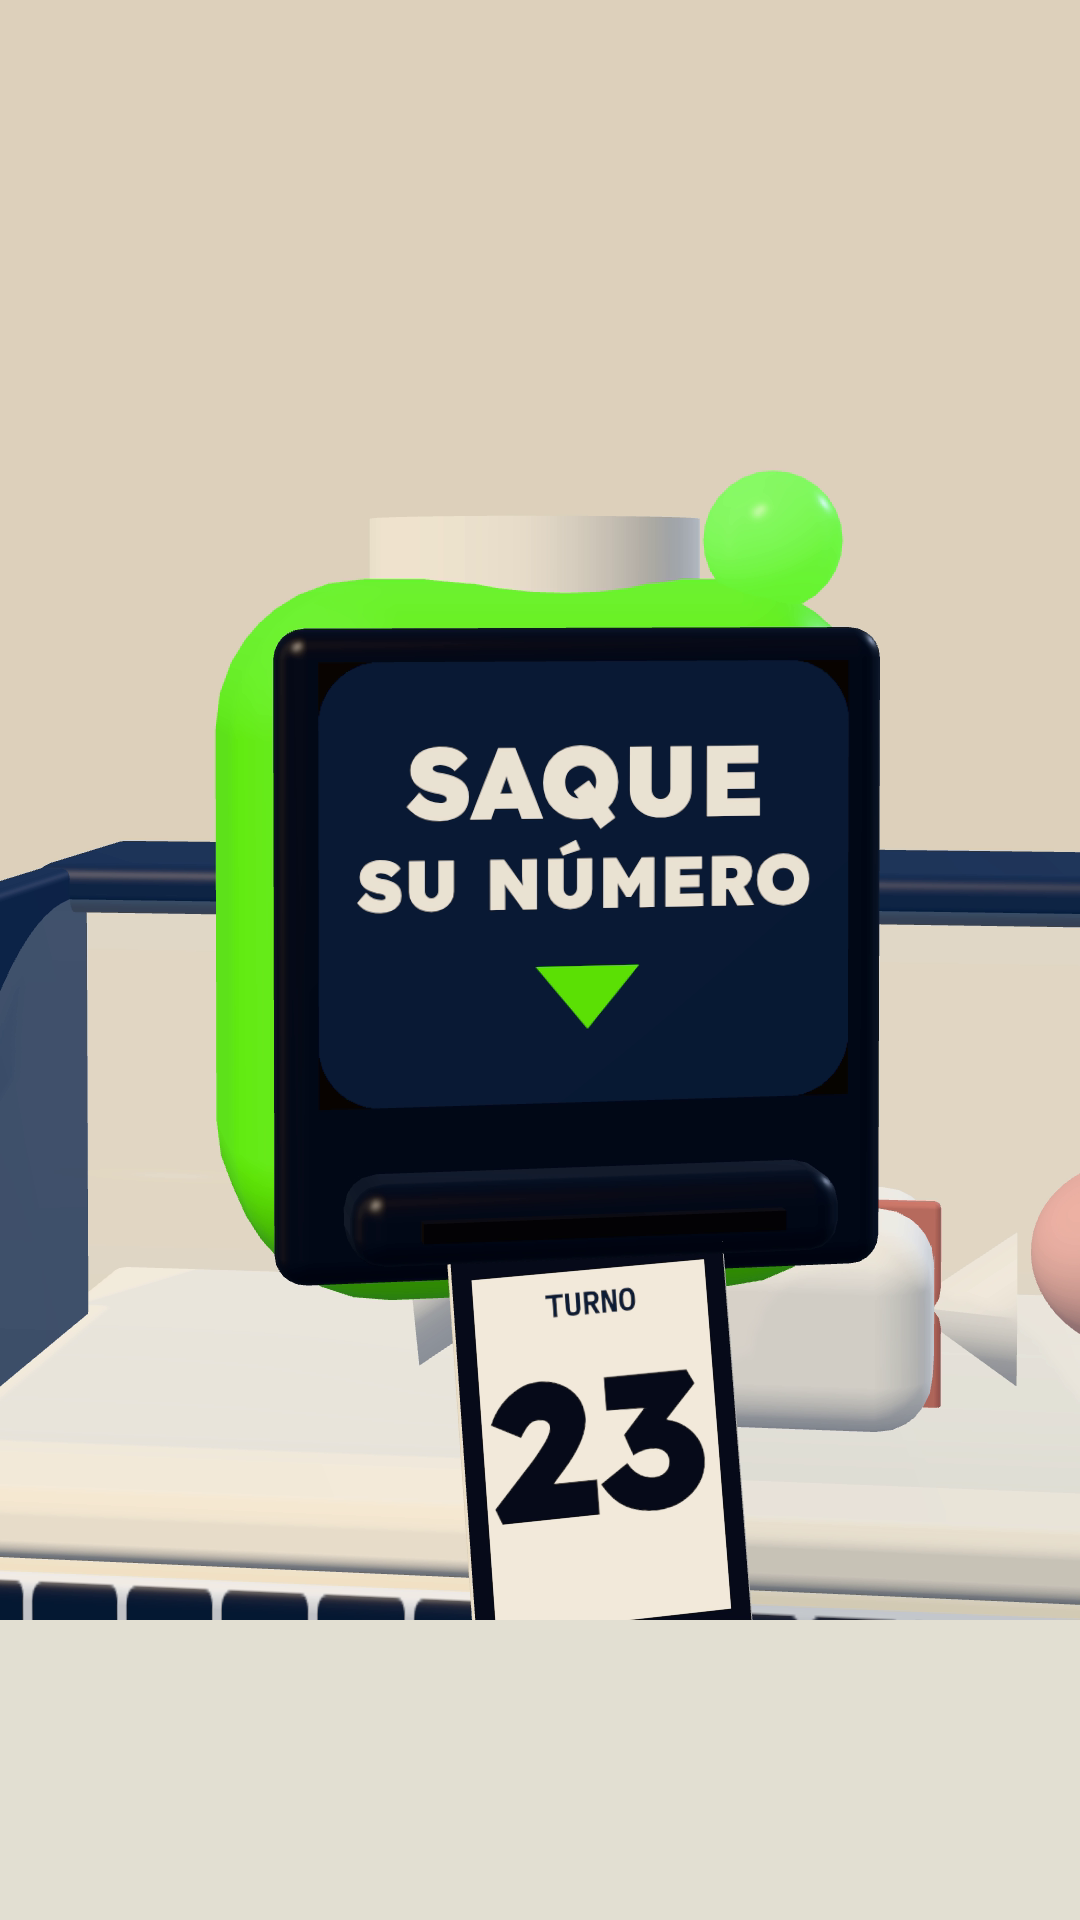
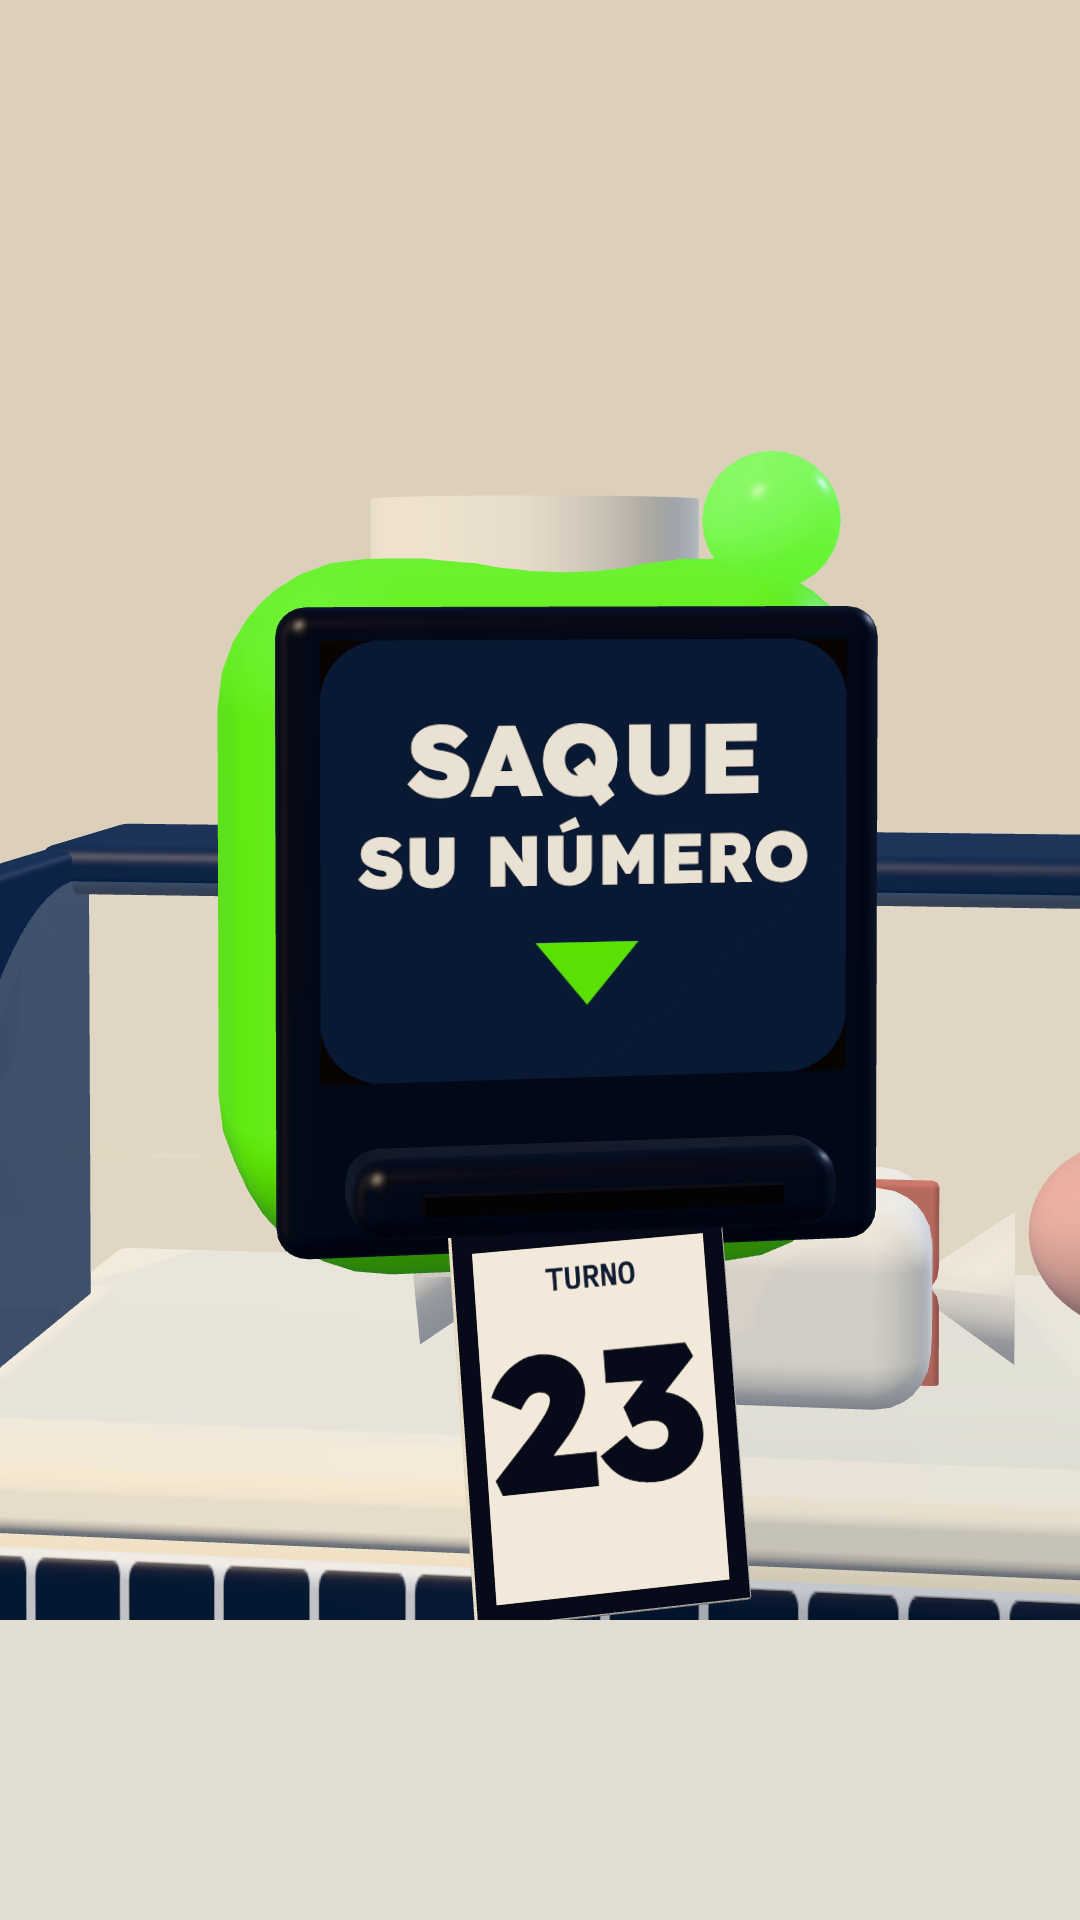
wip: por-que-sacar-numero (ronda 1 corregida)

diff --git a/reels/por-que-sacar-numero/assets/tres.js b/reels/por-que-sacar-numero/assets/tres.js
@@ -992,7 +992,7 @@ function zonaR(t) {
   displayR.visible = balanza.visible = celuR.visible = laptop.visible = en; tablet.visible = false; tildeTab.visible = false;
   bolsaW.visible = bolsaG.visible = false; graciela.raiz.visible = false; walter.raiz.visible = false; burbujaV.visible = false;
   tkVuelan.forEach((x) => (x.visible = false)); sinNum.forEach((x) => (x.visible = false));
-  cartelR.visible = en && plano !== "R";
+  cartelR.visible = en && !(plano === "R" && t > T.fila - 0.05 && t < T.s09 - 0.1);
   balanza.visible = en && plano !== "R6";
   if (!en) return;
   // ---- el numerador y el display (apagados hasta "sistema") ----
@@ -1104,7 +1104,7 @@ function zonaR(t) {
   // ---- s08: tres filas que no se ven (celular, mostrador, laptop): un ticket "?" rojo apagado sobre cada una, sin número ----
   sinNum.forEach((o) => (o.visible = false));
   if (plano === "R" && t > T.s08) {
-    const lugares = [V(OR.x - 0.55, 0.66, 0.6), V(OR.x - 0.1, 0.68, 0.6), V(OR.x + 0.35, 0.66, 0.6)];
+    const lugares = [V(OR.x - 0.52, 0.66, 0.6), V(OR.x - 0.12, 0.68, 0.6), V(OR.x + 0.27, 0.66, 0.6)];
     lugares.forEach((p, j) => {
       const t0 = T.fila + j * 0.14;
       const kk = t < t0 ? 0 : popIn(t, t0, 0.3) * (1 - sg(t, T.s09 - 0.15, T.s09));

diff --git a/reels/por-que-sacar-numero/compositions/s12-sistema.html b/reels/por-que-sacar-numero/compositions/s12-sistema.html
@@ -41,7 +41,7 @@
       const fuera = (ks, t) => tl.to(qa(ks.map((k) => ".n" + k + ", .l" + k + ", .d" + k).join(", ")), { opacity: 0, duration: 0.1, ease: "power1.in" }, t);
       const late = (s, t, k) => tl.fromTo(q(s), { scale: 1 }, { scale: k ?? 1.12, transformOrigin: "50% 50%", duration: 0.16, yoyo: true, repeat: 1, immediateRender: false }, t);
 
-nota(1, 1.66); fuera([1], 2.7);
+nota(1, 1.51); fuera([1], 2.38);
       window.__timelines = window.__timelines || {};
       window.__timelines[ID] = tl;
     })();

diff --git a/reels/por-que-sacar-numero/NOTAS-constructor.md b/reels/por-que-sacar-numero/NOTAS-constructor.md
@@ -102,3 +102,55 @@ el crema de la pared → `portada-src/fondo-portada.png` (la que usa portada.jso
   Walter entrando/saliendo).
 - "MIT" se oye en inglés ("em-ai-ti"); "se la llevaban" el STT lo oye "se las".
 - Las bicis que pasan quedan detrás del recibo (el recibo está adelante); se leen los recibos 5 y 7, el 9 casi no.
+
+## Ronda 1 de corrección (3 revisores sobre el MP4) · 13-11
+**Duración nueva 35,48 s** (voz 35,36 s), **95 palabras** (guion nuevo). Cierre 2,92 s desde "videollamada" (32,56).
+Inicios: s02 2,45 · s03 4,90 · s04 5,66 · s05 8,78 · s06 11,74 · s07 13,82 · s08 16,61 · s09 19,05 · s10 20,67 ·
+s11 23,55 · s12 26,00 · s13 28,78 · s14 32,56.
+
+Voz y guion (A):
+- `partes/armar-voz.mjs` rehecho por tramos: orus1-2 hasta 27,95 ("y se fue antes" entero) y orus2-1 hasta 10,30 ("com"
+  entero). Frases nuevas con Orus: "Los que llegaron después se llevaban lo suyo antes." (n5-2; la n5-1 decía "los
+  usuales"), "Que te pasen, muchas veces, pesa más que esperar." (n7-1; el STT oye "pesan" en las dos tomas: es la s
+  de "pasen" pegada) y "¿Ponemos número en tu negocio?" (n13-1). Orus con atempo 1,15 (antes 1,1); pausas más cortas
+  (después de "¿Por qué?" 0,6 → 0,36 s).
+- STT de la locución: "…y se fue antes…" y "…escalerita.com" (el "com" está; el dominio siempre lo oye así). En el
+  recorte de "se llevaban lo suyo antes" a tempo 1,15 el STT oye "los suyos han"; a tempo 1,0 lo oye perfecto: es el
+  STT con el habla rápida, se entiende. 95 palabras: no llegué a ≤ 90 sin sacar contenido aprobado (el pedido era ≤ 90
+  y ≤ ~35,5 s; la duración sí queda en 35,5 s).
+- Tiempos: `partes/ajustar-tiempos.mjs` con tramos nuevos de silencedetect; boca de Rubén 23,45-25,7.
+- `fuentes.md` filas 4 y 6 actualizadas al texto nuevo.
+- Chat (s09/s11): fondo crema #efeee5, burbuja blanca con borde verde #5ce611, barra de estado de Graciela 9:02.
+
+Visual (B):
+- ALTA bolsa de Walter: la agarra con la mano izquierda (la de cámara) y se va con ella en diagonal hacia cámara.
+- ALTA "?" verde liso: el "?" ya no viaja a la cámara; gira en el display y corte seco al plano abierto de RETIROS.
+- s01/s02: corte limpio del numerador (que no pisa más) al plano alto de la fila (todo dentro: display, 21-25, cinta).
+- Créditos 48 px con sublínea mono 44 px; tickets "?" con etiqueta navy 84 px (WHATSAPP/MOSTRADOR/WEB).
+- Balanza: brazo más alto, platillos más bajos y reloj de arena más bajo (no lo atraviesa); cámara centrada; sin Rubén
+  en el primer plano de la balanza; corte seco al plano general del almacén (s08).
+- s08: tickets "?" abajo, sobre el frente del mostrador (ya no tapan a Rubén ni al numerador); el cartel del
+  mostrador se esconde solo mientras están.
+- Cartel nuevo "ALMACÉN RUBÉN" en el frente del mostrador (llena el 40 % de abajo en s12 y da identidad).
+- s09: la cámara arranca en el celular (el subtítulo ya no cae en los ojos de Graciela); la burbuja que cruza el corte
+  es chica y va al celular de Rubén.
+- s10: cámara corrida; Walter de 3/4 sin brazo metido en el torso (se ve el de cámara).
+- s11: celular más bajo y más chico, cámara más alta: se ve la boca de Rubén en "¿Graciela?".
+- s12: la tablet aparece con las tres filas y "?" en el número; el numerador le da 23, 24, 25 (nunca en blanco); sin
+  Rubén en el inserto; s13: corte al general (R6) con Graciela a la derecha, de frente, sin la balanza detrás.
+- s05: los que llegaron después se llevan paquetes genéricos (caja de cartón con cinta verde y recibo 5, 7, 9) que
+  saltan y se van; la bici de Larson queda.
+- "Graciela · 9:02 · esperando" más arriba (no toca el logo); el display del almacén más chico y adentro.
+
+Sonido (C): ring de la bici 0,025 → 0,02; impact y pop del "?" bajados; whoosh audible (0,07) en el corte al general
+de s13; ding del cierre después de "com" (pal[94].end); typing de s09 bajado. Mezcla: I -16,8 LUFS, pico -4,2 dBFS;
+ningún tramo de 0,5 s ni de 0,1 s con voz por debajo de 6 dB.
+
+Pasadas: r1-pasada1 (cada 0,5 s) → cartel tapado por los "?", balanza detrás de Graciela, Walter cortado a la izquierda;
+r1-pasada2 (desfasada 0,25 s) → frente del mostrador vacío en s08 antes de los "?", "Una sola fila" pisando la tablet
+en el push-in, WEB tocando el borde. Todo corregido y verificado (r1-verif). `check --json`: ok, 0 errores.
+Portada: fondo limpio regenerado (`portada-src/fondo-limpio-0.6.png`, `fondo-portada.png`).
+
+Quedó flojo: 26,1-26,3 el celular y la tablet se cruzan un instante; 20,7 Walter entra cortado a la izquierda; 13,3 la
+revista asoma abajo al final de la grúa; el pelo de Rubén (casquete) es el del módulo `personajes.js` (no lo toqué,
+es el Rubén de siempre); 95 palabras (> 90).
